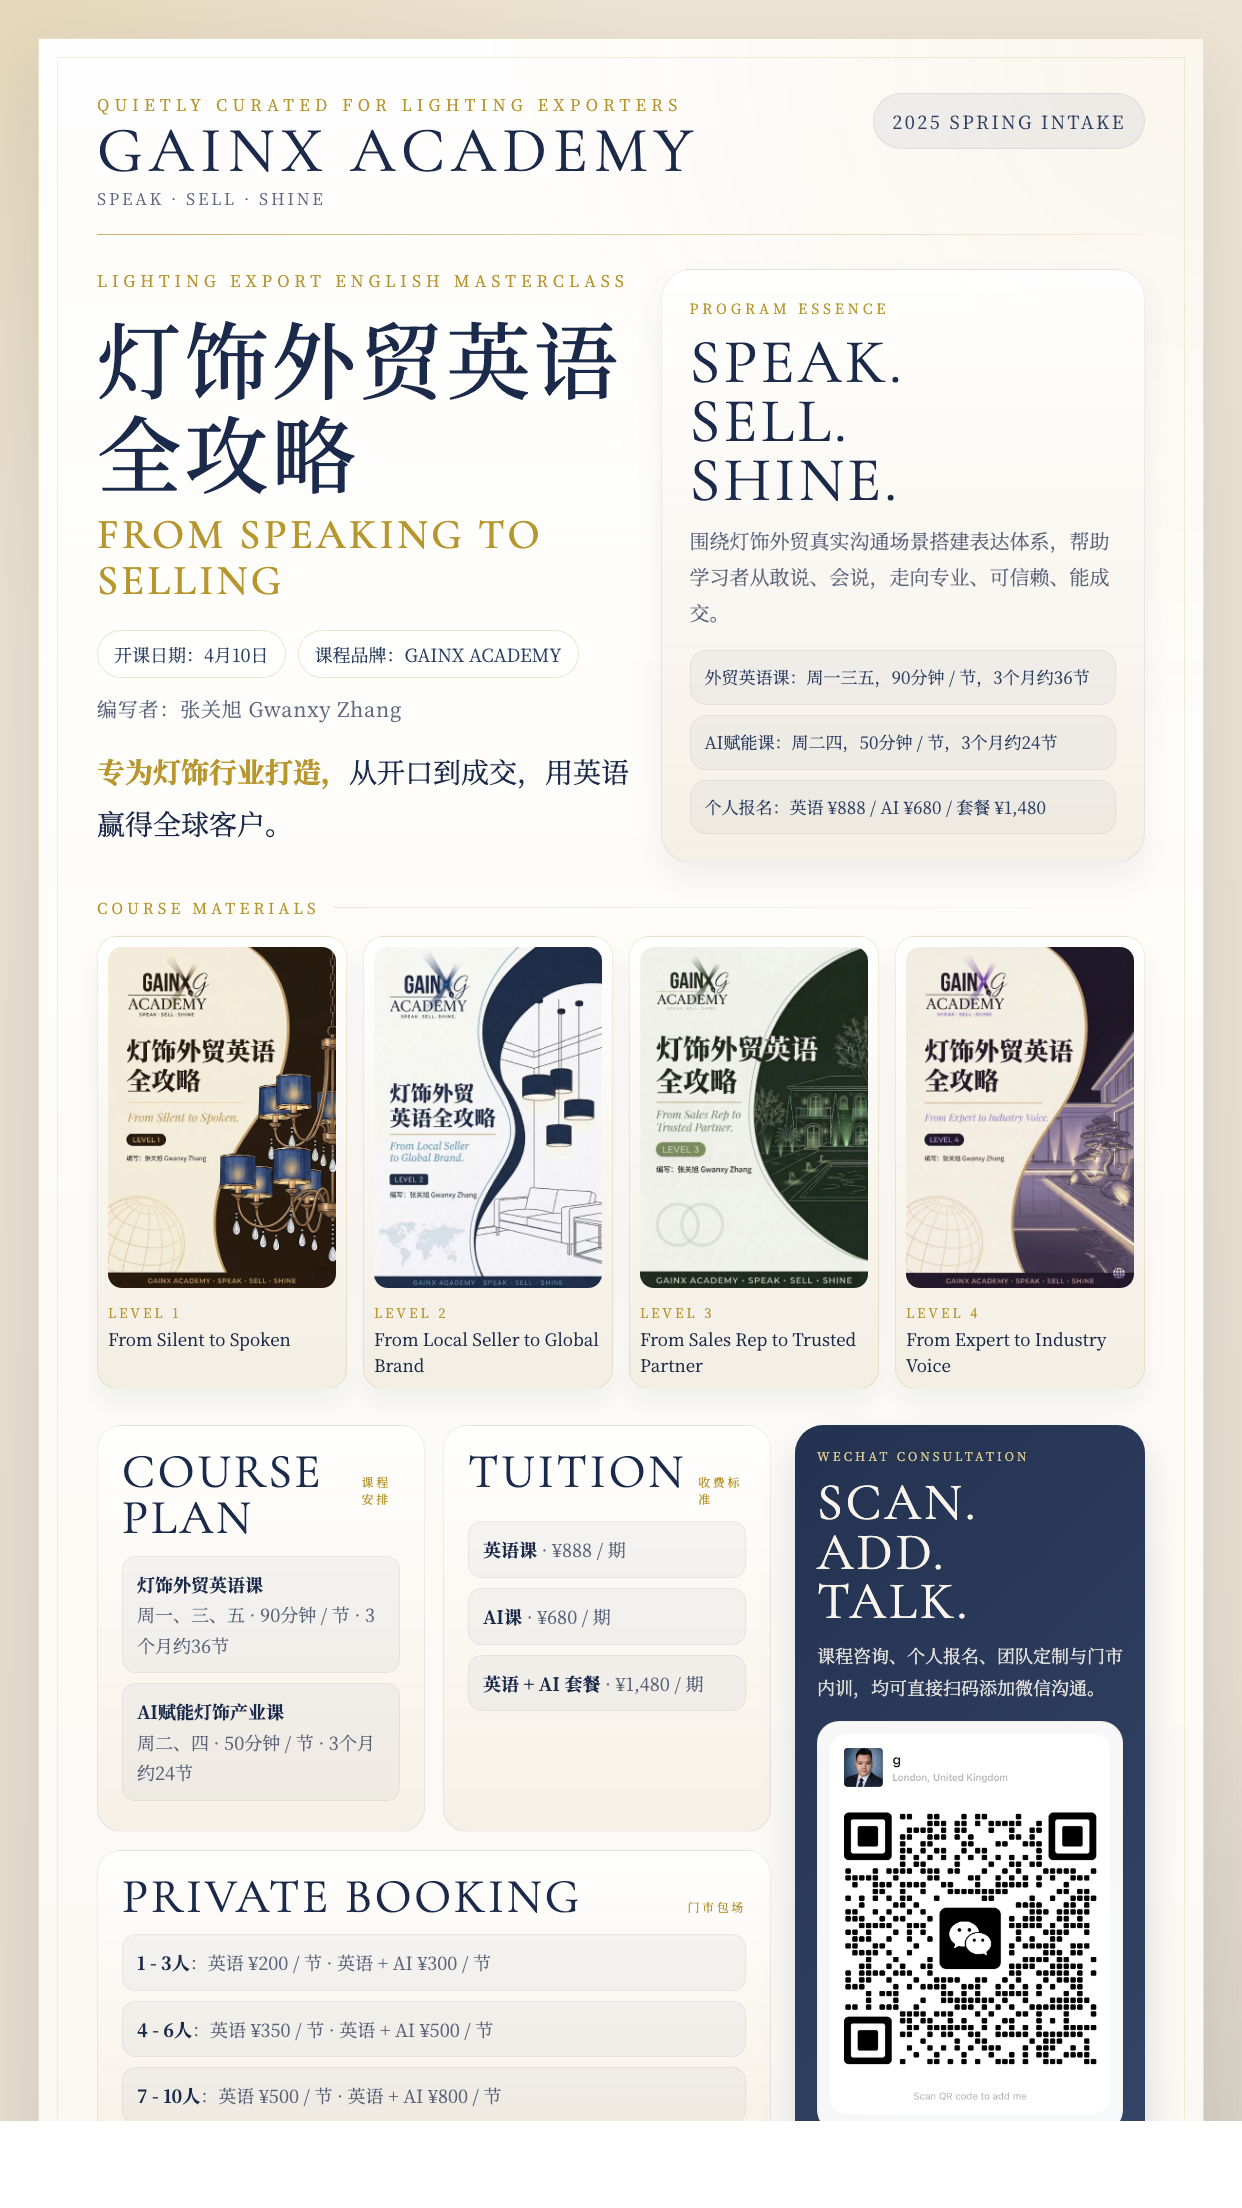
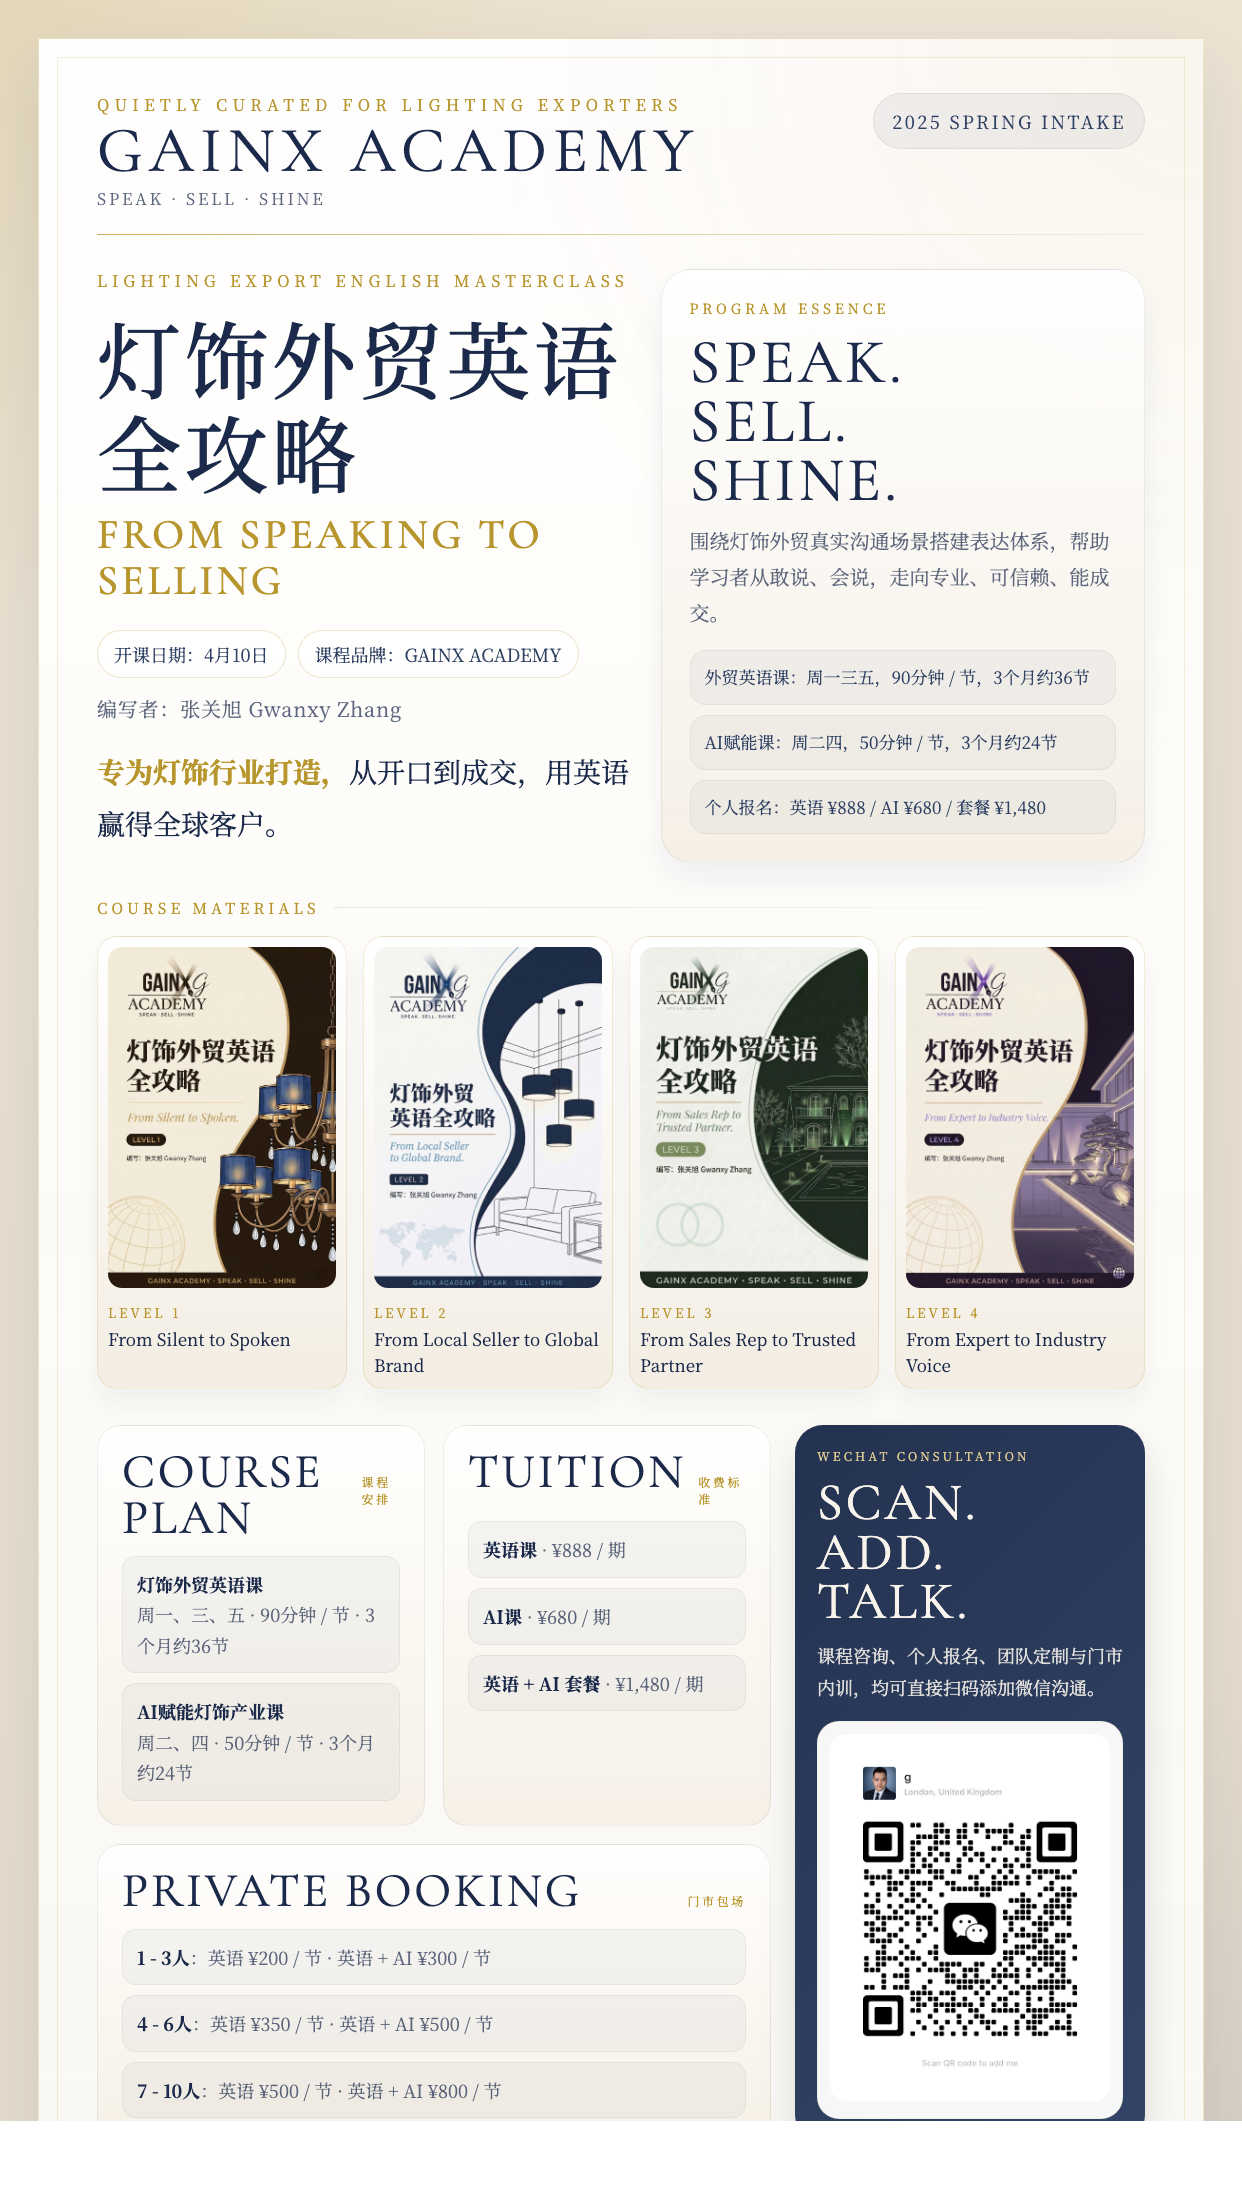
Use mobile-safe cover and QR image formats

Changed region(s): [[0.6731, 0.7812, 0.8873, 0.9375], [0.0918, 0.8438, 0.4589, 0.9688]]

diff --git a/index.html b/index.html
@@ -1083,7 +1083,7 @@
           <div class="section-title">Course Materials</div>
           <div class="books">
             <article class="book">
-              <img src="./assets/level-1.webp" alt="Level 1 封面" loading="lazy" />
+              <img src="./assets/level-1.png" alt="Level 1 封面" />
               <div class="book-meta">
                 <div class="book-level">Level 1</div>
                 <div class="book-name">From Silent to Spoken</div>
@@ -1091,7 +1091,7 @@
             </article>
 
             <article class="book">
-              <img src="./assets/level-2.webp" alt="Level 2 封面" loading="lazy" />
+              <img src="./assets/level-2.png" alt="Level 2 封面" />
               <div class="book-meta">
                 <div class="book-level">Level 2</div>
                 <div class="book-name">From Local Seller to Global Brand</div>
@@ -1099,7 +1099,7 @@
             </article>
 
             <article class="book">
-              <img src="./assets/level-3.webp" alt="Level 3 封面" loading="lazy" />
+              <img src="./assets/level-3.png" alt="Level 3 封面" />
               <div class="book-meta">
                 <div class="book-level">Level 3</div>
                 <div class="book-name">From Sales Rep to Trusted Partner</div>
@@ -1107,7 +1107,7 @@
             </article>
 
             <article class="book">
-              <img src="./assets/level-4.webp" alt="Level 4 封面" loading="lazy" />
+              <img src="./assets/level-4.png" alt="Level 4 封面" />
               <div class="book-meta">
                 <div class="book-level">Level 4</div>
                 <div class="book-name">From Expert to Industry Voice</div>
@@ -1264,7 +1264,7 @@
             </div>
 
             <div class="contact-qr">
-              <img src="./assets/wechat-contact.png" alt="微信咨询二维码" loading="lazy" />
+              <img src="./assets/wechat-code.jpg" alt="微信咨询二维码" />
               <div class="contact-caption">WeChat Contact · Scan to Add</div>
             </div>
           </div>

diff --git a/poster.html b/poster.html
@@ -462,22 +462,22 @@
     <div class="section-title">Course Materials</div>
     <section class="books">
       <article class="book">
-        <img src="./assets/level-1.webp" alt="Level 1" />
+        <img src="./assets/level-1.png" alt="Level 1" />
         <div class="book-level">Level 1</div>
         <div class="book-title">From Silent to Spoken</div>
       </article>
       <article class="book">
-        <img src="./assets/level-2.webp" alt="Level 2" />
+        <img src="./assets/level-2.png" alt="Level 2" />
         <div class="book-level">Level 2</div>
         <div class="book-title">From Local Seller to Global Brand</div>
       </article>
       <article class="book">
-        <img src="./assets/level-3.webp" alt="Level 3" />
+        <img src="./assets/level-3.png" alt="Level 3" />
         <div class="book-level">Level 3</div>
         <div class="book-title">From Sales Rep to Trusted Partner</div>
       </article>
       <article class="book">
-        <img src="./assets/level-4.webp" alt="Level 4" />
+        <img src="./assets/level-4.png" alt="Level 4" />
         <div class="book-level">Level 4</div>
         <div class="book-title">From Expert to Industry Voice</div>
       </article>
@@ -530,7 +530,7 @@
           课程咨询、个人报名、团队定制与门市内训，均可直接扫码添加微信沟通。
         </div>
         <div class="qr-frame">
-          <img src="./assets/wechat-contact.png" alt="微信二维码" />
+          <img src="./assets/wechat-code.jpg" alt="微信二维码" />
         </div>
       </aside>
     </section>
